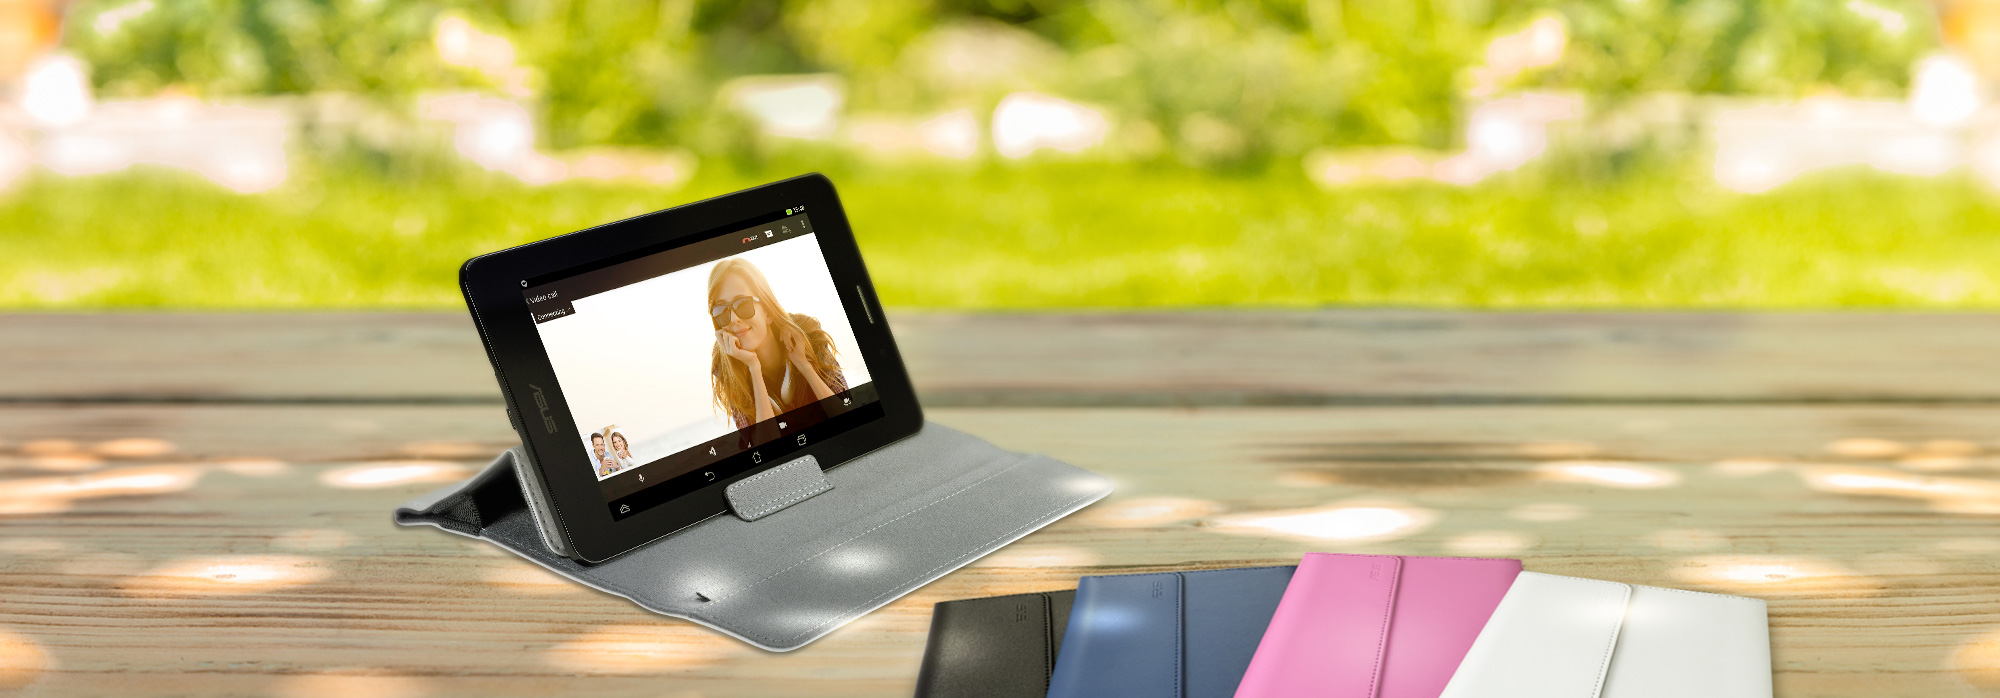
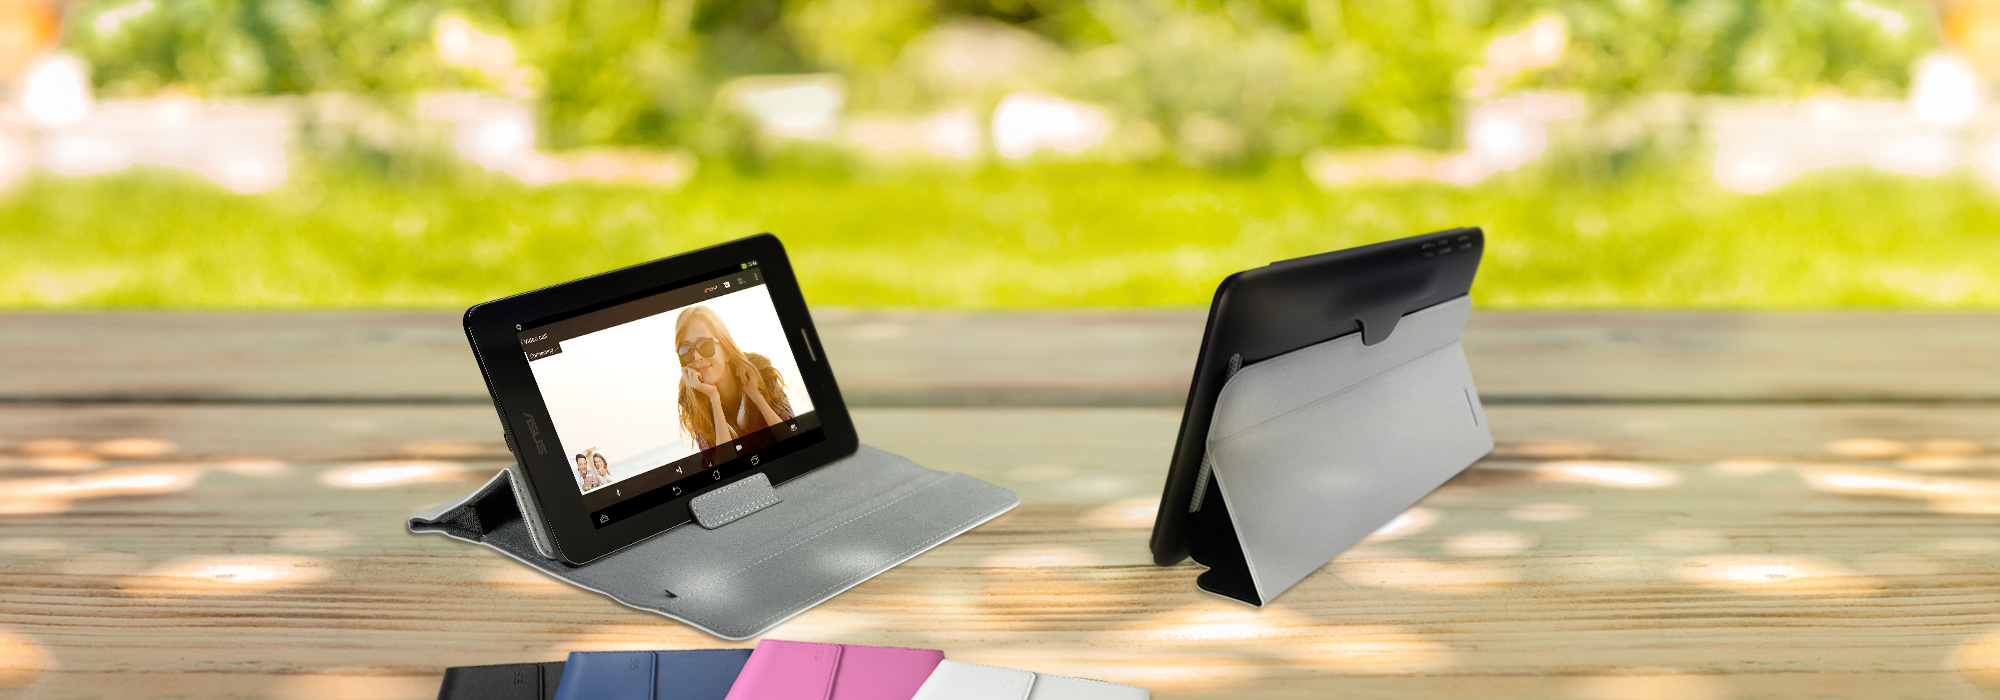
0128

diff --git a/websites/global/products/8exggl9cnpYAoWCk/css/style_me175.css b/websites/global/products/8exggl9cnpYAoWCk/css/style_me175.css
@@ -103,7 +103,7 @@ section#special-sectionOverview { background: none;height: 5830px;padding-bottom
 #special-sectionOverview .content h2 {	font-size:24px;	line-height:24px;	margin-bottom:15px;	color:inherit;}
 #special-sectionOverview .content h3 {	font-style:italic;	font-size:24px;	margin-bottom:9px;	color:inherit;}
 #special-sectionOverview .content p{ font-family: 'helvetica_lt_stdlight'; font-size:16px; line-height:23px;	margin-left:-5px;}
-#special-sectionOverview .page .content hgroup p { font-family: 'helvetica_lt_stdlight';}
+#special-sectionOverview .page .content hgroup p { width:430px; font-family: 'helvetica_lt_stdlight';}
 
 #special-sectionOverview #beauty.content h1,#special-sectionOverview #sound.content h1
 ,#special-sectionOverview #touch.content h1,#special-sectionOverview #responsive.content h1,#special-sectionOverview #ubiquity.content h1,#special-sectionOverview #supernote.content h1
@@ -149,6 +149,7 @@ section#special-sectionOverview { background: none;height: 5830px;padding-bottom
 
 /*index*/
 #special-sectionOverview #index{ height:800px;}
+#special-sectionOverview #index p.note { width:135px; height:50px; font-size:20px; top:80px; left:30px; position:absolute; color:#dfdfdf; text-align:right;}
 #special-sectionOverview .page.index{ height:800px;background-color:#f2f2f2; background-image:url(/websites/global/products/8exggl9cnpYAoWCk/img/common/index/bg_index.jpg); background-position:top center;}
 #index figure{ width:696px; height:609px; top:125px; left:-90px; position:absolute; z-index:-1;}
 #index hgroup{ width:470px; top:210px; left:390px; color:#fff;}
@@ -250,19 +251,21 @@ section#special-sectionOverview { background: none;height: 5830px;padding-bottom
 #Dual figure.phone { top:50px; left:390px;}
 #Dual.animate figure.phone { left:330px;}
 #Dual hgroup {width:330px; top:160px; left:90px;}
+#special-sectionOverview #Dual hgroup p { width:340px; }
 
 #beauty hgroup{ width:350px; top:250px; left:560px; color:#fff;}
-#beauty hgroup h2{  width:500px;}
+#beauty hgroup h2{ width:500px;}
 /*#beauty figure{ width:279px; height:395px;  bottom:-50px; right:160px;}
 #beauty.animate figure{  bottom:0;}*/
 #beauty figure.kv-fonepad { top:60px }
 
 #phoneCall hgroup{ width:280px; top:180px; left:100px;}
+#special-sectionOverview #phoneCall hgroup p { width:320px; }
 #phoneCall.animate figure{ bottom:0;}
 #phoneCall figure{ width:635px; height:624px; bottom:-200px; right:-100px;}
 #phoneCall .noteText{ font-size:12px; line-height:16px; bottom:65px; left:0; width:430px; position:absolute; color:#555;}
 
-#people hgroup{ width:310px; top:230px; left:560px; color:#fff;}
+#special-sectionOverview #people hgroup{ width:400px; top:230px; left:560px; color:#fff;}
 #people.animate figure{ bottom:0; }
 #people figure{ width:691px; height:575px;  bottom:-200px; left:40px;}
 
@@ -317,6 +320,8 @@ section#special-sectionOverview { background: none;height: 5830px;padding-bottom
 .page.sound.bg2 { background-position:bottom center;}
 
 #sound hgroup{ width:350px; top:190px; left:30px; color:rgb(255,255,0);}
+
+#special-sectionOverview #audioWizard hgroup p{width:300px;}
 
 /*#sound figure{ width:727px; height:700px;  bottom:0; right:-50px;}
 #sound.animate figure{  right:0px;}*/
@@ -409,11 +414,11 @@ animation:speaker 0.8s;
 /*==responsive==*/
 /*#special-sectionOverview  #responsive.content h1{ font-size:45px; margin-bottom:5px; line-height:60px;text-transform:capitalize; letter-spacing:-2px;}*/
 #responsive{ background-image:url(/websites/global/products/8exggl9cnpYAoWCk/img/common/response/response_bg.jpg);}
-#responsive hgroup{ width:340px; top:250px; left:50px; color:rgb(0,183,255);}
+#responsive hgroup{ width:340px; top:250px; left:40px; color:rgb(0,183,255);}
 #special-sectionOverview #responsive.content hgroup h1{ font-size:65px; }
 #special-sectionOverview #responsive.content hgroup h2{ margin-top:15px; margin-bottom:10px; }
-#special-sectionOverview #responsive.content hgroup p{ font-family: 'helvetica_lt_stdlight'; }
-#responsive figure.kv-fonepad{ left:380px; top:0px; }
+#special-sectionOverview #responsive.content hgroup p{ font-family: 'helvetica_lt_stdlight'; width:440px;}
+#responsive figure.kv-fonepad{ left:410px; top:0px; }
 
 /*==ubiquity==*/
 /*nav*/
@@ -446,8 +451,9 @@ animation:speaker 0.8s;
 #special-sectionOverview #slot hgroup{ width:650px; top:75px; left:200px; color:#322609;}
 #webstorage hgroup{ width:780px; top:72px; left:85px; color:#322609;}
 #miracast hgroup{ width:290px; top:130px; left:90px; color:#322609;}
+#special-sectionOverview  #miracast hgroup p { width:270px; }
 
-#battery figure.phoneTalk{ width:362px; height:578px; top:140px; left:510px; z-index:2;}
+#battery figure.phoneTalk{ width:362px; height:578px; top:140px; left:560px; z-index:2;}
 #battery figure.phoneVideo{ width:493px; height:379px; top:225px; left:0px; z-index:1;}
 
 #battery.animate figure.phoneTalk{ top:90px;}
@@ -509,9 +515,13 @@ animation:speaker 0.8s;
 #accessory{ background-image:url(/websites/global/products/8exggl9cnpYAoWCk/img/common/accesory/cover_bg.jpg);}
 #headset{ background-image:url(/websites/global/products/8exggl9cnpYAoWCk/img/common/accesory/earphone_bg.jpg);}
 
-#accessory hgroup{ width:450px; top:110px; left:550px; color:rgb(0, 84, 166);}
+#accessory hgroup{ width:450px; top:60px; left:330px; color:rgb(0, 84, 166);}
 #special-sectionOverview #accessory hgroup h2 { margin-bottom:10px;}
-#special-sectionOverview #accessory hgroup p { width:400px; font-family: 'helvetica_lt_stdlight';}
+#special-sectionOverview #accessory hgroup p { width:340px; font-family: 'helvetica_lt_stdlight';}
+#special-sectionOverview #accessory p.note { width:300px; color:white; font-size:13px; font-family: 'helvetica_lt_stdlight'; position:absolute; color:rgb(0, 84, 166); /*text-shadow:2px 1px 2px #222;*/}
+#special-sectionOverview #accessory p.note.n1 { top:570px; left:400px;}
+#special-sectionOverview #accessory p.note.n2 { top:510px; left:920px;}
+
 #special-sectionOverview #headset hgroup{ width:400px; top:80px; left:500px; color:#221b06;}
 #special-sectionOverview #headset hgroup h2 { width:480px; margin-bottom:10px; font-size:32px; line-height:36px; margin-bottom:10px;}
 
@@ -537,11 +547,49 @@ animation:speaker 0.8s;
 #special-sectionOverview #spec th{ color:#000; text-align:center; width:200px; font-weight:bold;}
 #special-sectionOverview #spec td{ border-bottom:1px solid #aec2d5; color:#555; line-height:22px;}
 
-@media (max-width: 1360px) {
+
+@media screen and (min-width: 2000px) {
+
+#special-sectionOverview .page.index{ background-image:url(/websites/global/products/8exggl9cnpYAoWCk/img/common/index/bg_index.jpg) no-repeat; -webkit-background-size:cover; -moz-background-size:cover; -ms-background-size:cover; -o-background-size:cover;}
+
+#beauty{ background-image:url(/websites/global/products/8exggl9cnpYAoWCk/img/common/beauty/beauty_bg.jpg) center no-repeat; -webkit-background-size:cover; -moz-background-size:cover; -ms-background-size:cover; -o-background-size:cover;}
+#phoneCall{ background-image:url(/websites/global/products/8exggl9cnpYAoWCk/img/common/beauty/3gphone_bg.jpg) center no-repeat; -webkit-background-size:cover; -moz-background-size:cover; -ms-background-size:cover; -o-background-size:cover;}
+#people{ background-image:url(/websites/global/products/8exggl9cnpYAoWCk/img/common/beauty/people_bg.jpg) center no-repeat; -webkit-background-size:cover; -moz-background-size:cover; -ms-background-size:cover; -o-background-size:cover;}
+#design{ background-image:url(/websites/global/products/8exggl9cnpYAoWCk/img/common/beauty/design_bg.jpg) center no-repeat; -webkit-background-size:cover; -moz-background-size:cover; -ms-background-size:cover; -o-background-size:cover;}
+#display{ background-image:url(/websites/global/products/8exggl9cnpYAoWCk/img/common/beauty/display_bg.jpg) center no-repeat; -webkit-background-size:cover; -moz-background-size:cover; -ms-background-size:cover; -o-background-size:cover;}
+#splendid{ background-image:url(/websites/global/products/8exggl9cnpYAoWCk/img/common/beauty/splendid_bg.jpg) center no-repeat; -webkit-background-size:cover; -moz-background-size:cover; -ms-background-size:cover; -o-background-size:cover;}
+#camera{ background-image:url(/websites/global/products/8exggl9cnpYAoWCk/img/common/beauty/camera_bg.jpg) center no-repeat; -webkit-background-size:cover; -moz-background-size:cover; -ms-background-size:cover; -o-background-size:cover;}
+#asusGallery{ background-image:url(/websites/global/products/8exggl9cnpYAoWCk/img/common/beauty/gallery_bg.jpg) center no-repeat; -webkit-background-size:cover; -moz-background-size:cover; -ms-background-size:cover; -o-background-size:cover;}
+#Dual{ background-image:url(/websites/global/products/8exggl9cnpYAoWCk/img/common/beauty/dual_bg.jpg) center no-repeat; -webkit-background-size:cover; -moz-background-size:cover; -ms-background-size:cover; -o-background-size:cover;}
+
+#sound { background-image:url(/websites/global/products/8exggl9cnpYAoWCk/img/common/sound/sound_bg.jpg) center no-repeat; -webkit-background-size:cover; -moz-background-size:cover; -ms-background-size:cover; -o-background-size:cover;}
+#audioWizard { background-image:url(/websites/global/products/8exggl9cnpYAoWCk/img/common/sound/audiowizard_bg.jpg) center no-repeat; -webkit-background-size:cover; -moz-background-size:cover; -ms-background-size:cover; -o-background-size:cover;}
+.page.sound {background-image:url(/websites/global/products/8exggl9cnpYAoWCk/img/common/sound/sonic_master_bg.jpg) center no-repeat; -webkit-background-size:cover; -moz-background-size:cover; -ms-background-size:cover; -o-background-size:cover;}
+
+#touch{ background-image:url(/websites/global/products/8exggl9cnpYAoWCk/img/common/touch/touch_bg.jpg) center no-repeat; -webkit-background-size:cover; -moz-background-size:cover; -ms-background-size:cover; -o-background-size:cover;}
+#multiTouch{ background-image:url(/websites/global/products/8exggl9cnpYAoWCk/img/common/touch/multi_touch_bg.jpg) center no-repeat; -webkit-background-size:cover; -moz-background-size:cover; -ms-background-size:cover; -o-background-size:cover;}
+#fit{ background-image:url(/websites/global/products/8exggl9cnpYAoWCk/img/common/touch/fits_bg.jpg) center no-repeat; -webkit-background-size:cover; -moz-background-size:cover; -ms-background-size:cover; -o-background-size:cover;}
+
+#responsive{ background-image:url(/websites/global/products/8exggl9cnpYAoWCk/img/common/response/response_bg.jpg) center no-repeat; -webkit-background-size:cover; -moz-background-size:cover; -ms-background-size:cover; -o-background-size:cover;}
+
+#ubiquity{ background-image:url(/websites/global/products/8exggl9cnpYAoWCk/img/common/cloud/ubiquity_bg.jpg) center no-repeat; -webkit-background-size:cover; -moz-background-size:cover; -ms-background-size:cover; -o-background-size:cover;}
+#battery{ background-image:url(/websites/global/products/8exggl9cnpYAoWCk/img/common/cloud/battery_bg.jpg) center no-repeat; -webkit-background-size:cover; -moz-background-size:cover; -ms-background-size:cover; -o-background-size:cover;}
+#slot{ background-image:url(/websites/global/products/8exggl9cnpYAoWCk/img/common/cloud/microsd_bg.jpg) center no-repeat; -webkit-background-size:cover; -moz-background-size:cover; -ms-background-size:cover; -o-background-size:cover;}
+#webstorage{ background-image:url(/websites/global/products/8exggl9cnpYAoWCk/img/common/cloud/webstorage_bg.jpg) center no-repeat; -webkit-background-size:cover; -moz-background-size:cover; -ms-background-size:cover; -o-background-size:cover;}
+#miracast{ background-image:url(/websites/global/products/8exggl9cnpYAoWCk/img/common/cloud/miracast_bg.jpg) center no-repeat; -webkit-background-size:cover; -moz-background-size:cover; -ms-background-size:cover; -o-background-size:cover;}
+
+#supernote{ background-image:url(/websites/global/products/8exggl9cnpYAoWCk/img/common/app/supernote_bg.jpg) center no-repeat; -webkit-background-size:cover; -moz-background-size:cover; -ms-background-size:cover; -o-background-size:cover;}
+#floatingApp{ background-image:url(/websites/global/products/8exggl9cnpYAoWCk/img/common/app/floating_bg.jpg) center no-repeat; -webkit-background-size:cover; -moz-background-size:cover; -ms-background-size:cover; -o-background-size:cover;}
+
+#accessory{ background-image:url(/websites/global/products/8exggl9cnpYAoWCk/img/common/accesory/cover_bg.jpg) center no-repeat; -webkit-background-size:cover; -moz-background-size:cover; -ms-background-size:cover; -o-background-size:cover;}
+#headset{ background-image:url(/websites/global/products/8exggl9cnpYAoWCk/img/common/accesory/earphone_bg.jpg) center no-repeat; -webkit-background-size:cover; -moz-background-size:cover; -ms-background-size:cover; -o-background-size:cover;}
+}
+
+@media (max-width: 1500px) {
     #special-sectionOverview .page a.tabarrow.prev {margin-left:-100px;}
     #special-sectionOverview .page a.tabarrow.next {margin-right:-100px;}
 }
-@media (max-width: 1200px) {
+@media (max-width: 1250px) {
     #special-sectionOverview .page a.tabarrow.prev {margin-left:0px;}
     #special-sectionOverview .page a.tabarrow.next {margin-right:0px;}
     #special-sectionOverview #touch hgroup{ left:480px;}

diff --git a/me175.htm b/me175.htm
@@ -235,7 +235,7 @@
         <!--<a href="http://www.youtube.com/embed/LOP5lbx_uuM?autoplay=1" target="_blank"><span></span><img src="websites/global/products/8exggl9cnpYAoWCk/img/common/index/video_2.png" /></a>-->
         </div>	
         <figure><img src="websites/global/products/8exggl9cnpYAoWCk/img/common/index/fonepad7.png" /></figure>
-        
+        <p class="note">ME175CG</p>
         <hgroup>
             <h1><img src="websites/global/products/8exggl9cnpYAoWCk/img/common/index/asus_fonepad7.png" alt="ASUS Fonepad 7" /></h1>
             <h2>Fonepad is Calling.</h2>
@@ -259,7 +259,7 @@
 		<hgroup>
         <h1>Beauty</h1>
 		<h2>The Best in Mobile Technology Just Got Better</h2>
-		<p>Meet the new ASUS Fonepad 7 Dual SIM, the world's most innovative combination of mobile phone and tablet. Experience all the features you'd expect from a dual-SIM mobile phone in a 7-inch tablet. It is available in stylish grey and pearl white.</p>
+		<p>Meet the new ASUS Fonepad 7 Dual SIM, the world's most innovative combination of mobile phone and tablet. Experience all the features you'd expect from a dual-SIM mobile phone in a 7-inch tablet. It is available in stylish gray and charming white.</p>
 		</hgroup>
 	</aside>
 </article>
@@ -343,7 +343,7 @@
         <figure class="pic4"><img src="websites/global/products/8exggl9cnpYAoWCk/img/common/beauty/camera_pic4.png" /></figure>
 		<hgroup>
 		<h2>Professional Photography For Everyone</h2>
-		<p>Shoot professional grade photos and videos with the ASUS Fonepad 7 Dual SIM’s front and rear-facing cameras. With its incredible 100-shot burst mode, you’ll never miss a single moment.</p>
+		<p>Shoot professional photos and videos with the ASUS Fonepad 7 Dual SIM's front and rear cameras. With <br/>its incredible 100-shot burst mode, you'll never <br/>miss a single moment.</p>
 		</hgroup>
 	</aside>
 </article>
@@ -375,8 +375,8 @@
 </div>
     
 <aside class="arrow-container">
-	<a class="tabarrow prev" title="previous"></a>
-	<a class="tabarrow next" title="next"></a>
+	<a class="tabarrow prev" title="previous"  onclick="common_track(['Special_Overview', 'ME175CG', 'Beauty - Landing']);"></a>
+	<a class="tabarrow next" title="next"  onclick="common_track(['Special_Overview', 'ME175CG', 'Beauty - Landing']);"></a>
 </aside>
 </nav>
 <!-- nav end-->
@@ -402,7 +402,7 @@
 </article>
 <!--article1 end-->
 
-<article id="speaker" class="content" title="Dual Front Speakers">
+<!--<article id="speaker" class="content" title="Dual Front Speakers">
 	<aside class="center">
     <figure class="phone"><img src="websites/global/products/8exggl9cnpYAoWCk/img/common/sound/speaker_fonepad.png" /></figure>
     <figure class="speakerL"><img src="websites/global/products/8exggl9cnpYAoWCk/img/common/sound/speaker_l.png" /></figure>
@@ -412,7 +412,7 @@
 		<p>Our engineers obsessed over bringing an innovative audio package to the ASUS Fonepad 7 Dual SIM. Dual front-facing speakers immerse you in crystal-clear audio.</p>
 		</hgroup>
 	</aside>
-</article>
+</article>-->
 <!--article2 end-->
 
 <article id="sonicMaster" class="content" title="SonicMaster">
@@ -433,7 +433,7 @@
 		<hgroup>
 		<h1>Audio Wizard</h1>
 		<h2>Tune in to Customized Audio</h2>
-		<p>Make your movies and games come to life with customized sound by AudioWizard. Adjust and tailor audio settings to suit whatever is onscreen, the difference will amaze you.</p>
+		<p>Make your movies and games come to life with customized sound by AudioWizard. Adjust and tailor audio settings to suit whatever is onscreen, the difference <br/>will amaze you.</p>
 		</hgroup>
 	</aside>
 </article>
@@ -451,8 +451,8 @@
 </div>
     
 <aside class="arrow-container">
-	<a class="tabarrow prev" title="previous"></a>
-	<a class="tabarrow next" title="next"></a>
+	<a class="tabarrow prev" title="previous"  onclick="common_track(['Special_Overview', 'ME175CG', 'Sound - Landing']);"></a>
+	<a class="tabarrow next" title="next"  onclick="common_track(['Special_Overview', 'ME175CG', 'Sound - Landing']);"></a>
 </aside>
 </nav>
 <!-- nav end-->
@@ -509,8 +509,8 @@
 </div>
     
 <aside class="arrow-container">
-	<a class="tabarrow prev" title="previous"></a>
-	<a class="tabarrow next" title="next"></a>
+	<a class="tabarrow prev" title="previous"  onclick="common_track(['Special_Overview', 'ME175CG', 'Touch - Landing']);"></a>
+	<a class="tabarrow next" title="next"  onclick="common_track(['Special_Overview', 'ME175CG', 'Touch - Landing']);"></a>
 </aside>
 </nav>
 <!-- nav end-->
@@ -527,8 +527,8 @@
 	<aside class="center">
         <hgroup>
             <h1>Responsiveness</h1>
-            <h2>Intel level Performance</h2>
-            <p>ASUS Fonepad 7 Dual SIM’s Intel® Atom™ processor lets you move effortlessly between multiple apps on the go.</p>
+            <h2>2 x 2 > 4</h2>
+            <p>Intel Atom CPUs with HyperThreading Technology for quad-threaded performance , giving you more processing power to run multiple apps simultaneously.</p>
         </hgroup>
     </aside>
 </article>
@@ -563,7 +563,7 @@
     <figure class="phoneVideo"><img src="websites/global/products/8exggl9cnpYAoWCk/img/common/cloud/battery_video.png" /></figure>
 		<hgroup>
 		<h2>All Day Battery Performance</h2>
-		<p>With an astounding 26 hours of 3G talk time and 10 hours of video playback, ASUS Fonepad 7 Dual SIM has enough juice to keep you going through the day.</p>
+		<p>With an astounding 30 hours of 3G talk time and 10 hours of video playback, ASUS Fonepad 7 Dual SIM has enough juice to keep you going through the day.</p>
 		</hgroup>
 	</aside>
 </article>
@@ -616,8 +616,8 @@
 </div>
     
 <aside class="arrow-container">
-	<a class="tabarrow prev" title="previous"></a>
-	<a class="tabarrow next" title="next"></a>
+	<a class="tabarrow prev" title="previous"  onclick="common_track(['Special_Overview', 'ME175CG', 'Ubiquity - Landing']);"></a>
+	<a class="tabarrow next" title="next"  onclick="common_track(['Special_Overview', 'ME175CG', 'Ubiquity - Landing']);"></a>
 </aside>
 </nav>
 <!-- nav end-->
@@ -661,8 +661,8 @@
 <nav class="black" id="sliderNavApplication">
 <div class="pagerList"><ul></ul></div>
 <aside class="arrow-container">
-	<a class="tabarrow prev" title="previous"></a>
-	<a class="tabarrow next" title="next"></a>
+	<a class="tabarrow prev" title="previous"  onclick="common_track(['Special_Overview', 'ME175CG', 'Applications - Landing']);"></a>
+	<a class="tabarrow next" title="next"  onclick="common_track(['Special_Overview', 'ME175CG', 'Applications - Landing']);"></a>
 </aside>
 </nav>
 <!-- nav end-->
@@ -683,8 +683,10 @@
 		<hgroup>
         <h1>Accessory</h1>
 		<h2>Perfectly Designed to Keep You Covered</h2>
-		<p>The ASUS VersaSleeve 7 protects your ASUS Fonepad 7 Dual SIM and has a folding design that props up your device at a comfortable angle for watching videos or conducting video calls.</p>
+		<p>The ASUS VersaSleeve 7 and ASUS Fonepad 7 Standcover protect your Fonepad and have folding designs that props up your device at a comfortable angle for watching videos or conducting video calls.</p>
 		</hgroup>
+        <p class="note n1">ASUS VersaSleeve 7</p>
+        <p class="note n2">ASUS Fonepad 7 Standcover</p>
 	</aside>
 </article>
 <!--article1 end-->
@@ -713,8 +715,8 @@
 </div>
     
 <aside class="arrow-container">
-	<a class="tabarrow prev" title="previous"></a>
-	<a class="tabarrow next" title="next"></a>
+	<a class="tabarrow prev" title="previous"  onclick="common_track(['Special_Overview', 'ME175CG', 'Accessory - Landing']);"></a>
+	<a class="tabarrow next" title="next"  onclick="common_track(['Special_Overview', 'ME175CG', 'Accessory - Landing']);"></a>
 </aside>
 </nav>
 <!-- nav end-->
@@ -726,14 +728,14 @@
 <!--mainMenu-->
 <nav id="main-menu">
     <ul>
-        <li class="m1 on"><a title="Index" href="javascript:"><span class="icon"></span>Top</a></li>
-        <li class="m2"><a title="Beauty" href="javascript:"><span class="icon"></span>Beauty</a></li>
-        <li class="m3"><a title="Sound" href="javascript:"><span class="icon"></span>Sound</a></li>
-        <li class="m4"><a title="Touch" href="javascript:"><span class="icon"></span>Touch</a></li>
-        <li class="m5"><a title="Responsiveness" href="javascript:"><span class="icon"></span>Responsiveness</a></li>
-        <li class="m6"><a title="Ubiquity" href="javascript:"><span class="icon"></span>Ubiquity</a></li>
-        <li class="m7"><a title="Applications" href="javascript:"><span class="icon"></span>Applications</a></li>
-        <li class="m8"><a title="Accessory" href="javascript:"><span class="icon"></span>Accessory</a></li>
+        <li class="m1 on"><a title="Index" href="javascript:"><span class="icon" onclick="common_track(['Special_Overview', 'ME175CG', 'Index - Navigation_Bar']);" ></span>Top</a></li>
+        <li class="m2"><a title="Beauty" href="javascript:"><span class="icon" onclick="common_track(['Special_Overview', 'ME175CG', 'Beauty - Navigation_Bar']);"></span>Beauty</a></li>
+        <li class="m3"><a title="Sound" href="javascript:"><span class="icon" onclick="common_track(['Special_Overview', 'ME175CG', 'Sound - Navigation_Bar']);"></span>Sound</a></li>
+        <li class="m4"><a title="Touch" href="javascript:"><span class="icon" onclick="common_track(['Special_Overview', 'ME175CG', 'Touch - Navigation_Bar']);"></span>Touch</a></li>
+        <li class="m5"><a title="Responsiveness" href="javascript:"><span class="icon" onclick="common_track(['Special_Overview', 'ME175CG', 'Responsiveness - Navigation_Bar']);"></span>Responsiveness</a></li>
+        <li class="m6"><a title="Ubiquity" href="javascript:"><span class="icon" onclick="common_track(['Special_Overview', 'ME175CG', 'Ubiquity - Navigation_Bar']);"></span>Ubiquity</a></li>
+        <li class="m7"><a title="Applications" href="javascript:"><span class="icon" onclick="common_track(['Special_Overview', 'ME175CG', 'Applications - Navigation_Bar']);"></span>Applications</a></li>
+        <li class="m8"><a title="Accessory" href="javascript:"><span class="icon" onclick="common_track(['Special_Overview', 'ME175CG', 'Accessory - Navigation_Bar']);"></span>Accessory</a></li>
     </ul>
 </nav>
 <!--mainMenu end-->

diff --git a/websites/global/products/8exggl9cnpYAoWCk/js/load.js b/websites/global/products/8exggl9cnpYAoWCk/js/load.js
@@ -34,7 +34,7 @@ document.write('<script src="/websites/global/products/' + producthash + '/js/js
 document.write('<script src="/websites/global/products/' + producthash + '/js/jsLibs/jquery.tinyscrollbar.min.js"></script>');
 document.write('<script src="/websites/global/products/' + producthash + '/js/jsLibs/jquery.easyListSplitter.js"></script>');
 
-//ME372
+//ME175
 document.write('<script src="/websites/global/products/' + producthash + '/js/jquery.cycle.all.js"></script>');
 document.write('<script src="/websites/global/products/' + producthash + '/js/jquery.easing.1.3.js"></script>');
 document.write('<script src="/websites/global/products/' + producthash + '/js/jquery.reel.js"></script>');

diff --git a/websites/global/products/8exggl9cnpYAoWCk/js/main.js b/websites/global/products/8exggl9cnpYAoWCk/js/main.js
@@ -19,7 +19,7 @@
     $("#special-sectionOverview #wrap").css("left", $(window).width() <= 960 ? 0 : ($(window).width() - 960) / -2 );
 
 
-    $("#main-menu li a").bind('touchend click', function () {
+    $("#main-menu li a").on('touchend click', function () {
         var idx = $(this).parent().index();
         $("html,body").animate({
             scrollTop : $(".page").eq(idx).offset().top - 30
@@ -27,7 +27,7 @@
     });
 
  
-    $(".page nav li a").bind('touchend click', function () {
+    $(".page nav li a").on('touchend click', function () {
         var o = $(this);
 
         var activeIndex = o.parent().index();
